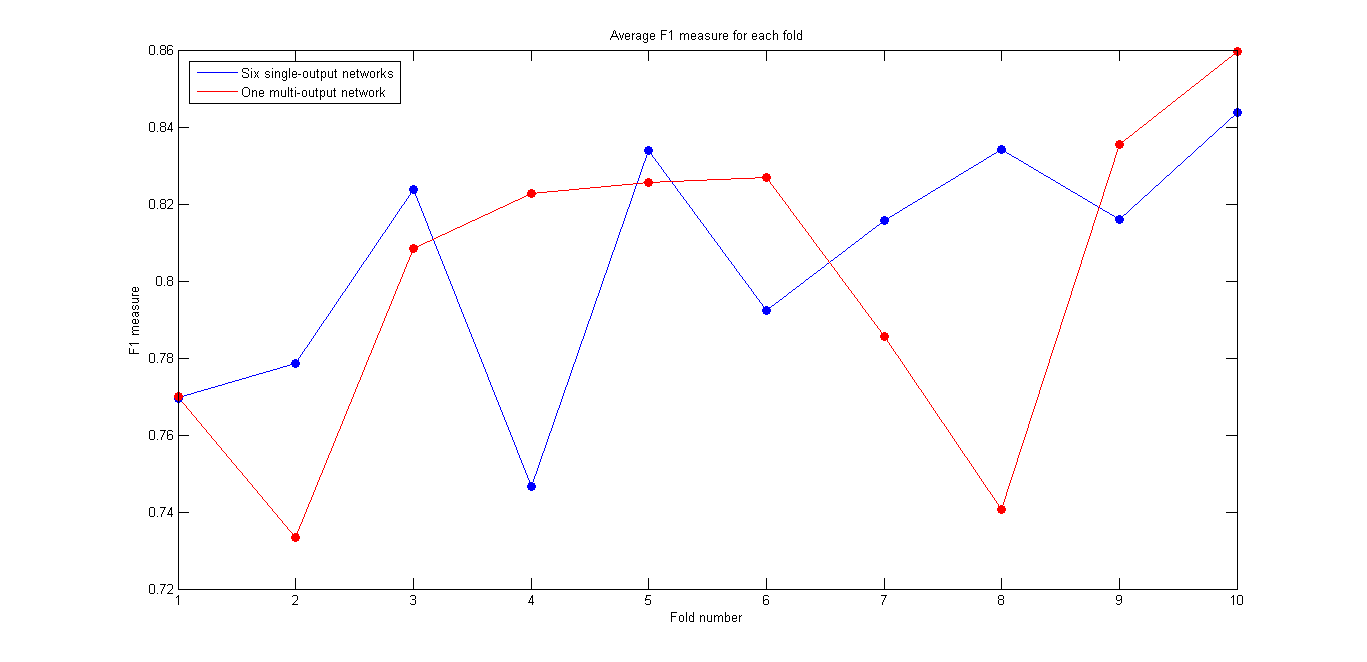
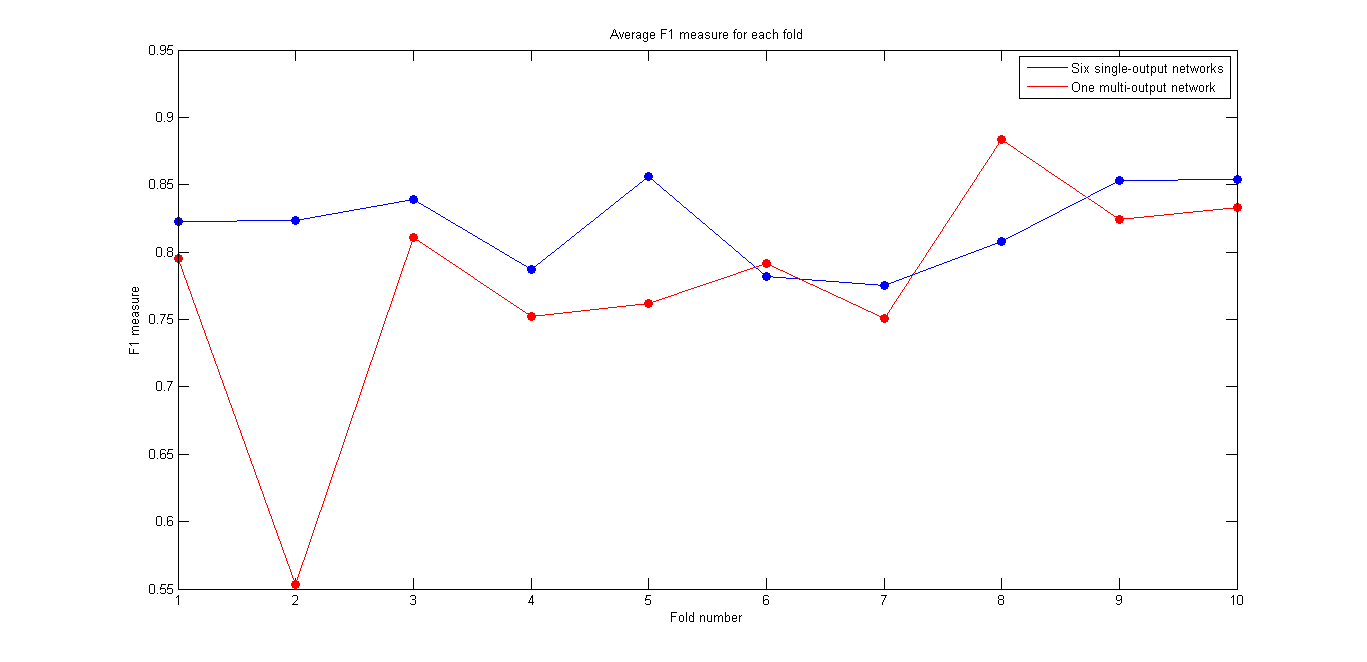
nfoldvalidation results

diff --git a/2_ANN/nFoldValidate.m b/2_ANN/nFoldValidate.m
@@ -28,12 +28,16 @@ function confusionMatrix = nFoldValidate(examples, classifications, n, networkTy
         transferFcn = 'tansig';
         trainingFcn = 'trainscg';
         learningRate = 0.01;
+        grad = 3e-06;
+        goal = 0.002;
     elseif(strcmp(networkType,'single'))
         hiddenLayers = 1;
         hiddenNeurons = 9;
         transferFcn = 'tansig';
         trainingFcn = 'trainscg';
         learningRate = 0.01;
+        grad = 5e-06;
+        goal = 0.003;
     end
     
     for i = 1:n - 1
@@ -56,9 +60,9 @@ function confusionMatrix = nFoldValidate(examples, classifications, n, networkTy
         [trainingExamplesANN,trainingClassesANN] = ANNdata(trainingExamples,trainingClasses);
         
         if(strcmp(networkType,'multi'))
-            net = generateMultiOutputNetwork(trainingExamplesANN,trainingClassesANN,hiddenLayers,hiddenNeurons,transferFcn,trainingFcn,learningRate);
+            net = generateMultiOutputNetwork(trainingExamplesANN,trainingClassesANN,hiddenLayers,hiddenNeurons,transferFcn,trainingFcn,learningRate,grad,goal);
         elseif(strcmp(networkType,'single'))
-            net = generateSingleOutputNetworks(trainingExamplesANN,trainingClassesANN,hiddenLayers,hiddenNeurons,transferFcn,trainingFcn,learningRate);
+            net = generateSingleOutputNetworks(trainingExamplesANN,trainingClassesANN,hiddenLayers,hiddenNeurons,transferFcn,trainingFcn,learningRate,grad,goal);
         end
         
         predictions = testANN(net, testExamplesANN);
@@ -84,9 +88,9 @@ function confusionMatrix = nFoldValidate(examples, classifications, n, networkTy
         [trainingExamplesANN,trainingClassesANN] = ANNdata(trainingExamples,trainingClasses);
         
         if(strcmp(networkType,'multi'))
-            net = generateMultiOutputNetwork(trainingExamplesANN,trainingClassesANN,hiddenLayers,hiddenNeurons,transferFcn,trainingFcn,learningRate);
+            net = generateMultiOutputNetwork(trainingExamplesANN,trainingClassesANN,hiddenLayers,hiddenNeurons,transferFcn,trainingFcn,learningRate,grad,goal);
         elseif(strcmp(networkType,'single'))
-            net = generateSingleOutputNetworks(trainingExamplesANN,trainingClassesANN,hiddenLayers,hiddenNeurons,transferFcn,trainingFcn,learningRate);
+            net = generateSingleOutputNetworks(trainingExamplesANN,trainingClassesANN,hiddenLayers,hiddenNeurons,transferFcn,trainingFcn,learningRate,grad,goal);
         end
         
         predictions = testANN(net, testExamplesANN);

diff --git a/2_ANN/plottingPerformanceSingle.m b/2_ANN/plottingPerformanceSingle.m
@@ -1,12 +1,20 @@
-function [ method ] = plottingPerformanceSingle(x,y,trainFcn,layers)
+function [ method ] = plottingPerformanceSingle(x,y)
 
-method = zeros(50,1);
+method = zeros(11,10);
 
-for i = 6:50
-    for j = 1:5
-    b = optimiseSingle(x,y,layers,i,'tansig',trainFcn,0.01);
-    method(i) = method(i) + (b(1,1) + b(2,2) + b(3,3) + b(4,4) + b(5,5) + b(6,6))/104;
+indexGoal = 1;
+
+for i = 0:0.001:0.01
+    display(indexGoal);
+    indexGrad = 1;
+    for j = 1e-6:1e-6:1e-5
+        display(indexGrad);
+        
+        b = optimiseSingle(x,y,1,9,'tansig','trainscg',0.01,i,j);
+        method(indexGoal,indexGrad) = method(indexGoal,indexGrad) + (b(1,1) + b(2,2) + b(3,3) + b(4,4) + b(5,5) + b(6,6))/104;
+        
+        indexGrad = indexGrad + 1;
     end
+    indexGoal = indexGoal + 1;
 end
-    method = method ./ 5;
 end

diff --git a/2_ANN/plottingPerformance.m b/2_ANN/plottingPerformance.m
@@ -1,12 +1,20 @@
-function [ method ] = plottingPerformance(x,y,trainFcn,layers)
+function [ method ] = plottingPerformance(x,y)
 
-method = zeros(50,1);
+method = zeros(11,10);
 
-for i = 6:50
-    for j = 1:10
-    [~,b] = optimiseNetwork(x,y,layers,i,'tansig',trainFcn,0.01);
-    method(i) = method(i) + (b(1,1) + b(2,2) + b(3,3) + b(4,4) + b(5,5) + b(6,6))/104;
+indexGoal = 1;
+
+for i = 0:0.001:0.01
+    display(indexGoal);
+    indexGrad = 1;
+    for j = 1e-6:1e-6:1e-5
+        display(indexGrad);
+        
+        [~,b] = optimiseNetwork(x,y,1,23,'tansig','trainscg',0.01,i,j);
+        method(indexGoal,indexGrad) = method(indexGoal,indexGrad) + (b(1,1) + b(2,2) + b(3,3) + b(4,4) + b(5,5) + b(6,6))/104;
+
+        indexGrad = indexGrad + 1;
     end
+    indexGoal = indexGoal + 1;
 end
-    method = method ./ 10;
 end

diff --git a/2_ANN/generateSingleOutputNetworks.m b/2_ANN/generateSingleOutputNetworks.m
@@ -1,4 +1,4 @@
-function net = generateSingleOutputNetworks(xANN,yANN,layers,neurons,transferFcn,trainingFcn,lr)
+function net = generateSingleOutputNetworks(xANN,yANN,layers,neurons,transferFcn,trainingFcn,lr,grad,goal)
 
     possibleOutcomes = size(yANN,1);
     hidden = neurons*ones(1,layers);
@@ -13,6 +13,8 @@ function net = generateSingleOutputNetworks(xANN,yANN,layers,neurons,transferFcn
         end
         tempnet.trainParam.showWindow = 0;
         tempnet.trainParam.lr = lr;
+        tempnet.trainParam.goal = goal;
+        tempnet.trainParam.min_grad = grad;
         tempnet.divideFcn = 'divideind';
         tempnet.divideParam.trainInd = 1:800;
         tempnet.divideParam.valInd = 801:900;

diff --git a/2_ANN/generateMultiOutputNetwork.m b/2_ANN/generateMultiOutputNetwork.m
@@ -1,4 +1,4 @@
-function [net] = generateMultiOutputNetwork(xANN,yANN,layers,neurons,transferFcn,trainingFcn,lr) 
+function [net] = generateMultiOutputNetwork(xANN,yANN,layers,neurons,transferFcn,trainingFcn,lr,grad,goal) 
     
     hidden = neurons*ones(1,layers);
     net = feedforwardnet(hidden,trainingFcn);
@@ -9,6 +9,8 @@ function [net] = generateMultiOutputNetwork(xANN,yANN,layers,neurons,transferFcn
         net.layers{i}.transferFcn = transferFcn;
     end
     net.trainParam.lr = lr;
+    net.trainParam.goal = goal;
+    net.trainParam.min_grad = grad;
     net.trainParam.showWindow = 0;
     net.divideFcn = 'divideind';
     net.divideParam.trainInd = 1:800;

diff --git a/2_ANN/optimiseNetwork.m b/2_ANN/optimiseNetwork.m
@@ -1,4 +1,4 @@
-function [recallPrecision, confusion] = optimiseNetwork(x, y, layers, neurons, transferFcn, trainingFcn, lr) 
+function [recallPrecision, confusion] = optimiseNetwork(x,y,layers,neurons,transferFcn,trainingFcn,lr,goal,grad) 
 
     trainingSet = x(1:900,:);
     trainingClass = y(1:900);
@@ -18,6 +18,8 @@ function [recallPrecision, confusion] = optimiseNetwork(x, y, layers, neurons, t
     end
     
     net.trainParam.lr = lr;
+    net.trainParam.goal = goal;
+    net.trainParam.min_grad = grad;
     net.trainParam.showWindow = 0;
     net.divideFcn = 'divideind';
     net.divideParam.trainInd = 1:800;

diff --git a/2_ANN/optimiseSingle.m b/2_ANN/optimiseSingle.m
@@ -1,4 +1,4 @@
-function [confusion] = optimiseSingle(x,y,layers,neurons,transferFcn,trainingFcn,lr)
+function [confusion] = optimiseSingle(x,y,layers,neurons,transferFcn,trainingFcn,lr,goal,grad) 
 
 
 trainingSet = x(1:900,:);
@@ -22,6 +22,8 @@ for i=1:possibleOutcomes
     end
     tempnet.trainParam.showWindow = 0;
     tempnet.trainParam.lr = lr;
+    tempnet.trainParam.goal = goal;
+    tempnet.trainParam.min_grad = grad;
     tempnet.divideFcn = 'divideind';
     tempnet.divideParam.trainInd = 1:800;
     tempnet.divideParam.valInd = 801:900;
